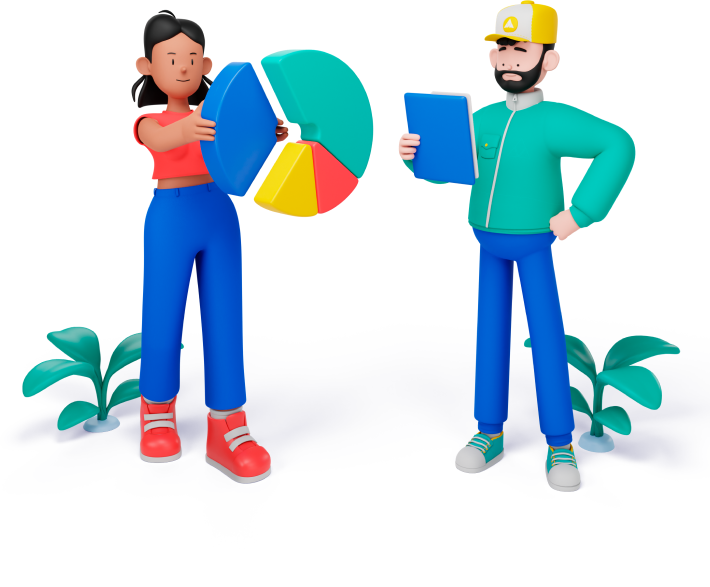
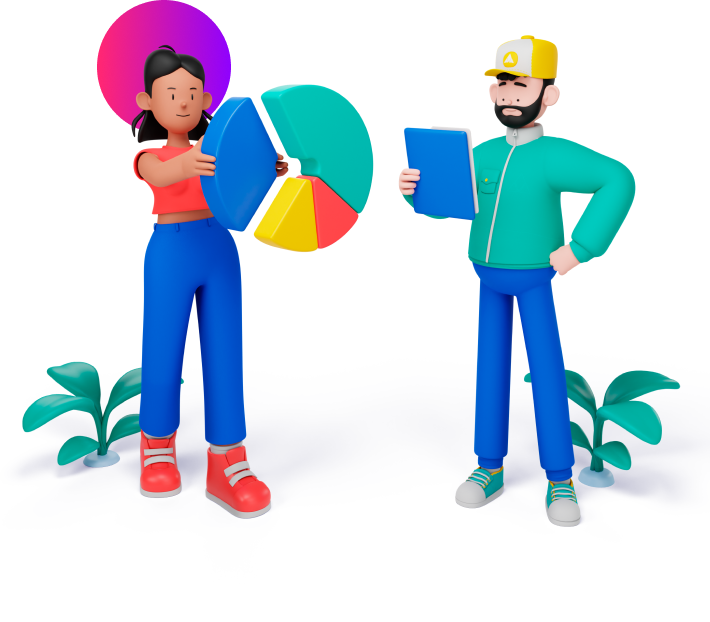
fix:lenflare fix

diff --git a/src/Pages/HomePage/HomePage.scss b/src/Pages/HomePage/HomePage.scss
@@ -29,11 +29,12 @@
 
     .main-top-lens-flare{
         position: absolute;
-        top: -10%;
+        top: -100px;
         // width: 150%;
         // height: auto;
         left: -5%;
         z-index: -1;
+        width: 70%;
         
         opacity: .6;
        
@@ -934,6 +935,9 @@
   @media (min-width: 769px) and (max-width: 1150px) {
     .home-page{
 
+        
+       
+
         .navdiv{
             padding: 30px 50px;
         }
@@ -987,6 +991,20 @@
 
   @media screen and (max-width: 768px) {
     .home-page{
+
+        .main-top-lens-flare{
+           
+            top: 10px;
+
+            left: -5%;
+            z-index: -1;
+            width: 100%;
+            
+            opacity: .6;
+           
+            
+            
+        }
         .navdiv{
                 padding: 30px 45px ;
             }

diff --git a/src/Pages/HomePage/HomePage.jsx b/src/Pages/HomePage/HomePage.jsx
@@ -6,7 +6,8 @@ import { Link } from "react-router-dom";
 const HomePage = () => {
   return (
     <div className="home-page">
-      <div className="lenz-flare  main-top-lens-flare"></div>
+         <img src="/images/centrelensflare.png" alt="lensflare" className="main-top-lens-flare"/>
+      {/* <div className="lenz-flare  main-top-lens-flare"></div> */}
 
       <div className="navdiv">
         <Nav />
@@ -15,7 +16,7 @@ const HomePage = () => {
       <main>
         <section className="hero">
           <div className="left">
-            {/* <img src="/images/centrelensflare.png" alt="lensflare" className="main-top-lens-flare"/> */}
+         
             <img
               src="/images/whitestar.png"
               alt="hero-img"

diff --git a/src/Pages/HomePage/HomePage.css b/src/Pages/HomePage/HomePage.css
@@ -25,9 +25,10 @@
 }
 .home-page .main-top-lens-flare {
   position: absolute;
-  top: -10%;
+  top: -100px;
   left: -5%;
   z-index: -1;
+  width: 70%;
   opacity: 0.6;
 }
 .home-page .lailac {
@@ -712,6 +713,13 @@
   }
 }
 @media screen and (max-width: 768px) {
+  .home-page .main-top-lens-flare {
+    top: 10px;
+    left: -5%;
+    z-index: -1;
+    width: 100%;
+    opacity: 0.6;
+  }
   .home-page .navdiv {
     padding: 30px 45px;
   }
